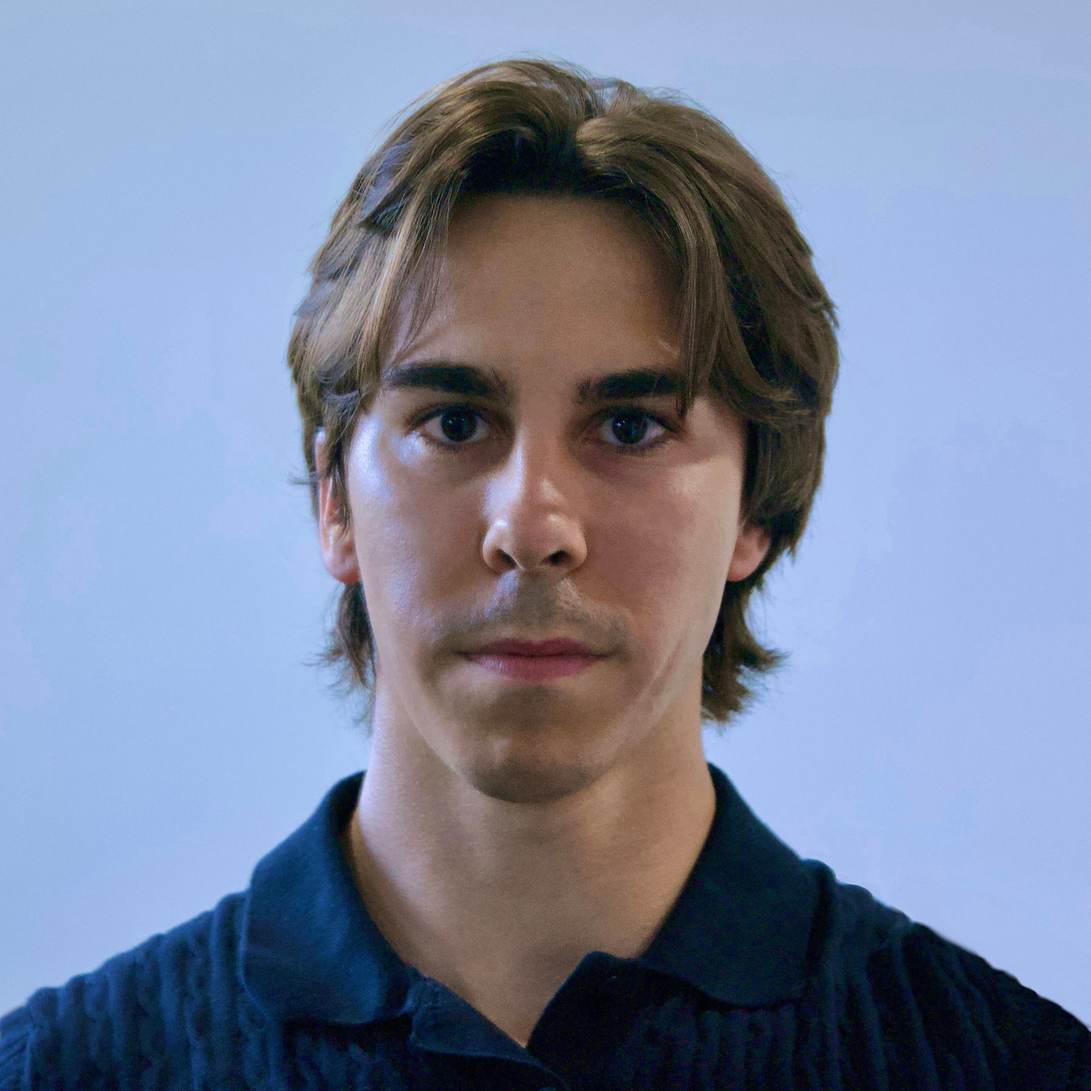
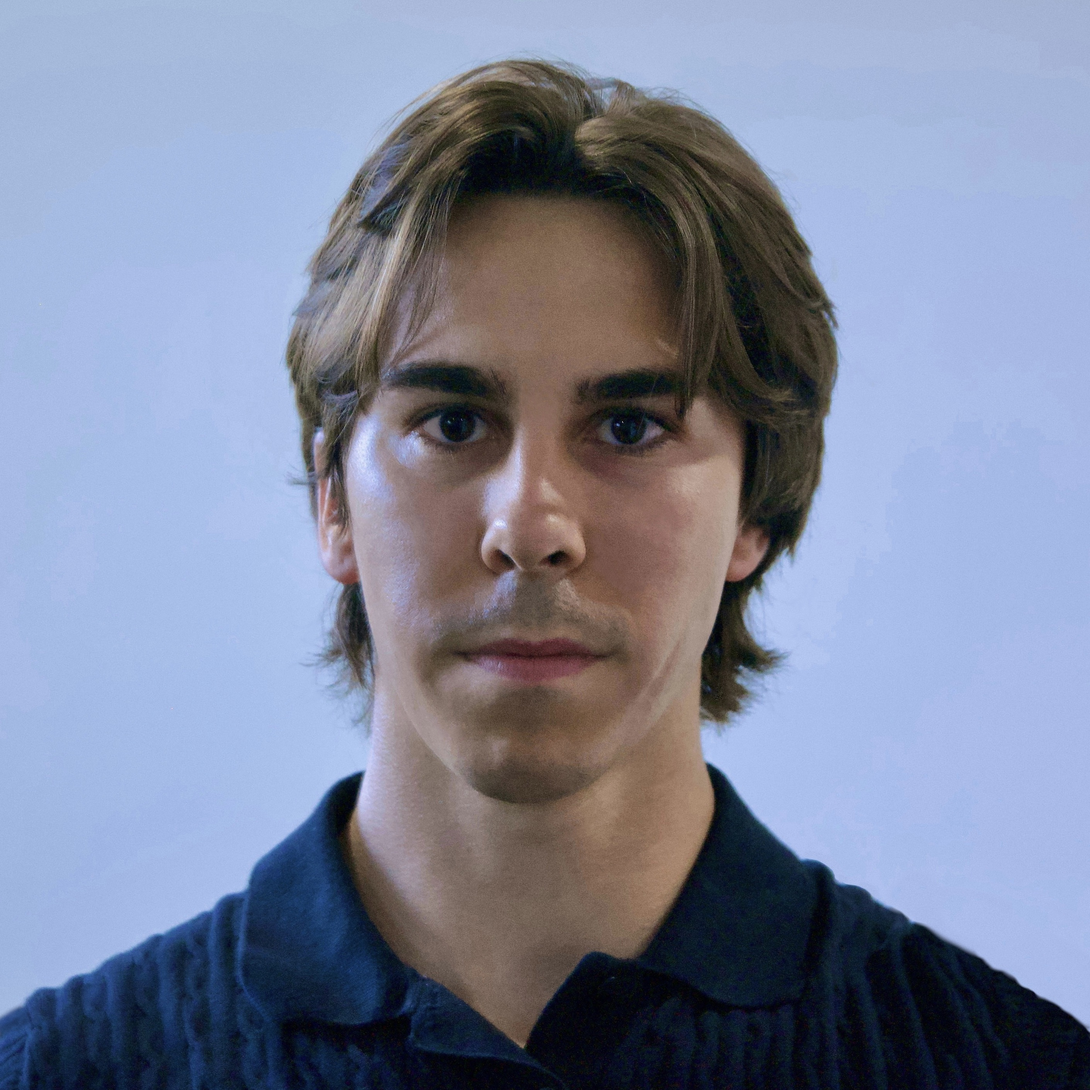
fdgfg

diff --git a/index.html b/index.html
@@ -29,7 +29,7 @@ title: Homepage
             <div class="col-lg-6 order-1 order-lg-2">
                 <div class="hero-image" data-aos="zoom-in" data-aos-delay="100">
                     <div class="image-wrapper">
-                        <img src="/assets/img/profile/headshot3.jpeg" alt="Headshot" class="img-fluid">
+                        <img src="/assets/img/profile/headshot.jpeg" alt="Headshot" class="img-fluid">
                         <div class="floating-elements">
                             <div class="floating-card cloud" data-aos="zoom-in" data-aos-delay="400">
                                 <i class="bi bi-cloud"></i>
